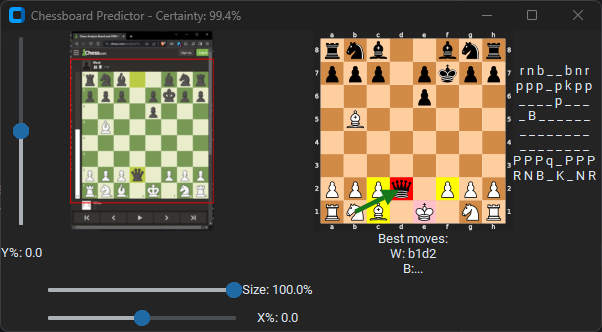
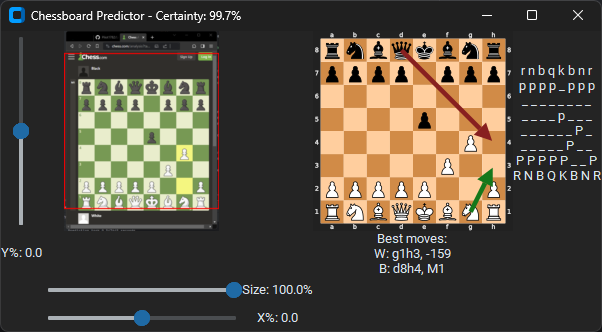
update images

diff --git a/live.py b/live.py
@@ -311,13 +311,18 @@ class GUI(threading.Thread):
             b_uci_move = best_move[1].move.uci() if best_move[1] is not None else "..."
 
             w_eval = best_move[0].info["score"].white().score(mate_score=1000000) if best_move[0] is not None else 0
-            b_eval = best_move[1].info["score"].white().score(mate_score=1000000) if best_move[1] is not None else 0
+            if w_eval >= 999950:
+                w_eval = f"M{1000000 - w_eval}"
+            b_eval = (best_move[1].info["score"].white().score(mate_score=1000000) if best_move[1] is not None else 0) * -1
+            if b_eval >= 999950:
+                b_eval = f"M{1000000 - b_eval}"
+
             if w_uci_move == "0000" or b_uci_move == "0000":
                 self.status.configure(text="Resign")
             else:
                 self.status.configure(text=f"Best moves:\n"
                                            f"W: {w_uci_move}, {w_eval}\n"
-                                           f"B: {b_uci_move}, {-b_eval}")
+                                           f"B: {b_uci_move}, {b_eval}")
 
         if cropped is not None:
             cropped = Image.fromarray(cropped)
@@ -466,7 +471,12 @@ def stream():
             gui.updatePreview(img=src, cropped=frame)
 
         # Look for chessboard in image, get corners and split chessboard into tiles
-        tiles, corners = chessboard_finder.findGrayscaleTilesInImage(frame)
+        try:
+            tiles, corners = chessboard_finder.findGrayscaleTilesInImage(frame)
+        except ValueError:
+            print("Couldn't parse chessboard")
+            board_detected = False
+            continue
 
         # Exit on failure to find chessboard in image
         if tiles is None or len(tiles) == 0:
